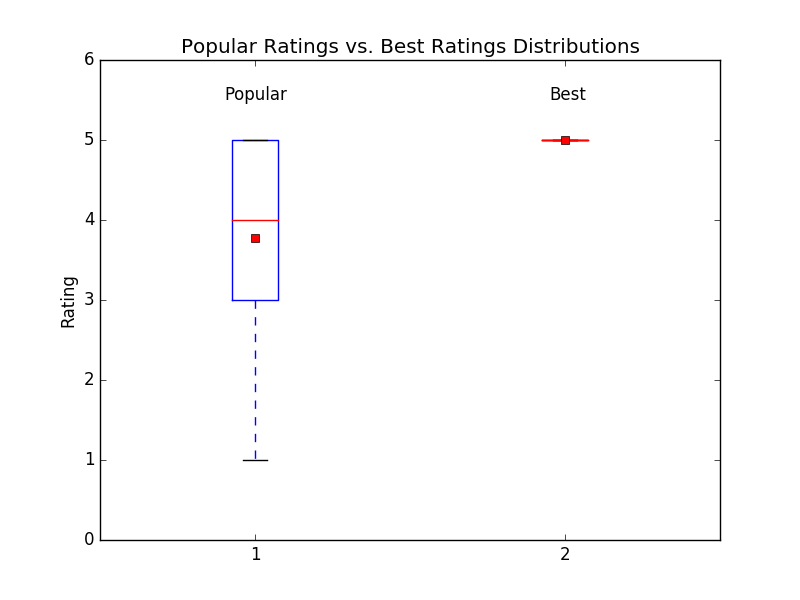
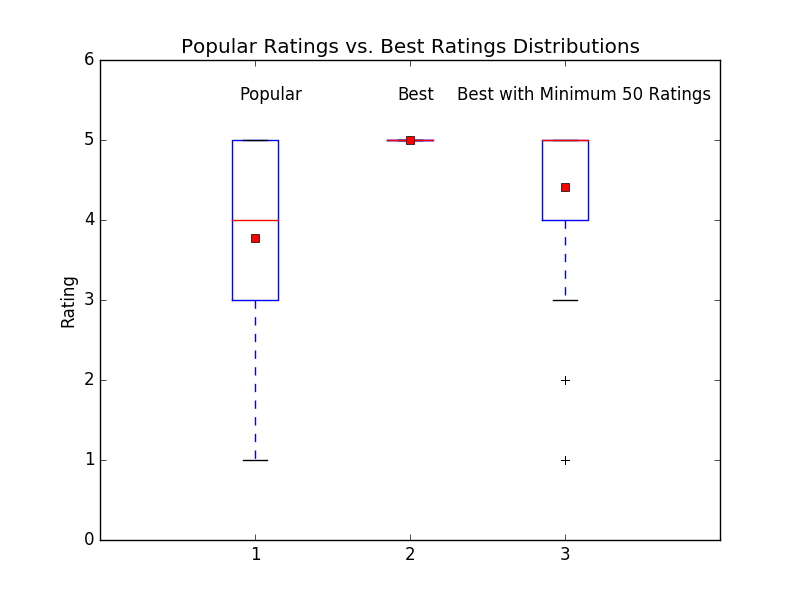
add basic vis for best ratings with >=50 ratings

diff --git a/basic.py b/basic.py
@@ -39,7 +39,7 @@ def get_ten_pop_movies(movies, ratings):
 	return pop_ratings
 
 # Returns list of ratings of best movies
-def get_ten_best_movies(movies, ratings):
+def get_ten_best_movies(movies, ratings, n_rates=1):
 	movie_ratings = [0 for i in range(len(movies))]
 	num_ratings = [0 for i in range(len(movies))]
 
@@ -52,7 +52,8 @@ def get_ten_best_movies(movies, ratings):
 	avg_ratings = []
 
 	for i in range(len(movie_ratings)):
-		avg_ratings.append((i, movie_ratings[i] / num_ratings[i]))
+		if num_ratings[i] >= n_rates:
+			avg_ratings.append((i, movie_ratings[i] / num_ratings[i]))
 
 	best_movies = heapq.nlargest(10, avg_ratings, key=operator.itemgetter(1))
 	best_movies = [best_movies[i][0] for i in range(len(best_movies))]
@@ -99,7 +100,9 @@ def box_ratings(ratings, dest, which="all"):
 	elif which == "pop_best":
 		plt.title("Popular Ratings vs. Best Ratings Distributions")
 		plt.text(.9, 5.5, "Popular")
-		plt.text(1.95, 5.5, "Best")
+		plt.text(1.92, 5.5, "Best")
+		plt.text(2.3, 5.5, "Best with Minimum 50 Ratings")
+		plt.xlim(0, 4)
 	elif which == "genre":
 		plt.title("Distributions by Genre")
 		plt.text(.9, 5.5, "Animation")
@@ -119,21 +122,23 @@ if __name__ == '__main__':
 	all_ratings = get_all_ratings(ratings)
 	pop_ratings = get_ten_pop_movies(movies, ratings)
 	best_ratings = get_ten_best_movies(movies, ratings)
+	best_ratings_50 = get_ten_best_movies(movies, ratings, n_rates=50)
 	animation_ratings = get_genre_ratings(movies, ratings, animation)
 	drama_ratings = get_genre_ratings(movies, ratings, drama)
 	horror_ratings = get_genre_ratings(movies, ratings, horror)
 	genre_ratings = [animation_ratings, drama_ratings, horror_ratings]
 
-	hist_ratings(all_ratings, [.2, 30000], "images\\all_ratings_hist.png")
+	# hist_ratings(all_ratings, [.2, 30000], "images\\all_ratings_hist.png")
 	# hist_ratings(pop_ratings, [.2, 1600], "images\\pop_ratings_hist.png")
 	# hist_ratings(best_ratings, [.2, 14], "images\\best_ratings.png")
+	# hist_ratings(best_ratings_50, [.2, 1200], "images\\best_ratings_nrate_50.png")
 	# hist_ratings(animation_ratings, [.2, 1200], "images\\animation_ratings_hist.png")
 	# hist_ratings(drama_ratings, [.2, 9000], "images\\drama_ratings_hist.png")
 	# hist_ratings(horror_ratings, [.2, 1600], "images\\horror_ratings.png")
 
 	#box_ratings(all_ratings, "images\\all_ratings_box.png")
-	#box_ratings([pop_ratings, best_ratings], 
-	#            "images\\pop_v_best_ratings_box.png", which="pop_best", )
+	box_ratings([pop_ratings, best_ratings, best_ratings_50], 
+	            "images\\pop_v_best_ratings_box.png", which="pop_best")
 	#box_ratings(genre_ratings, "images\\drama_ratings_box.png", which="genre")
 
 
